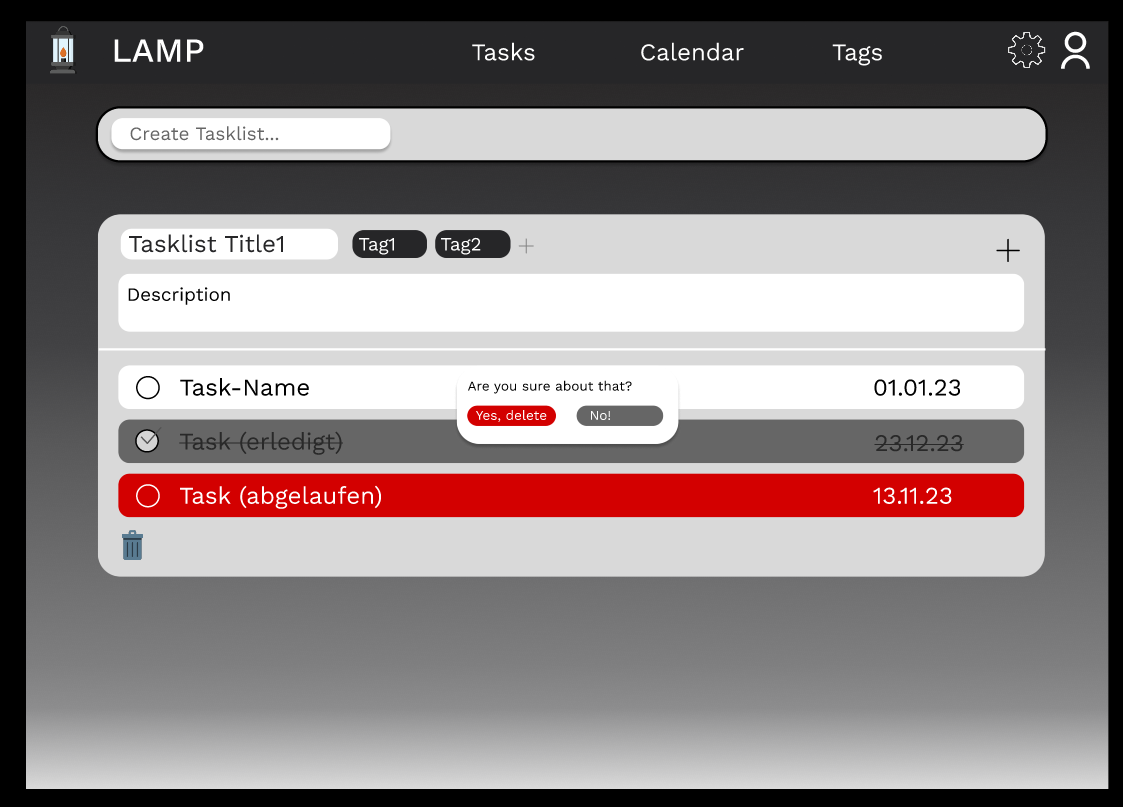
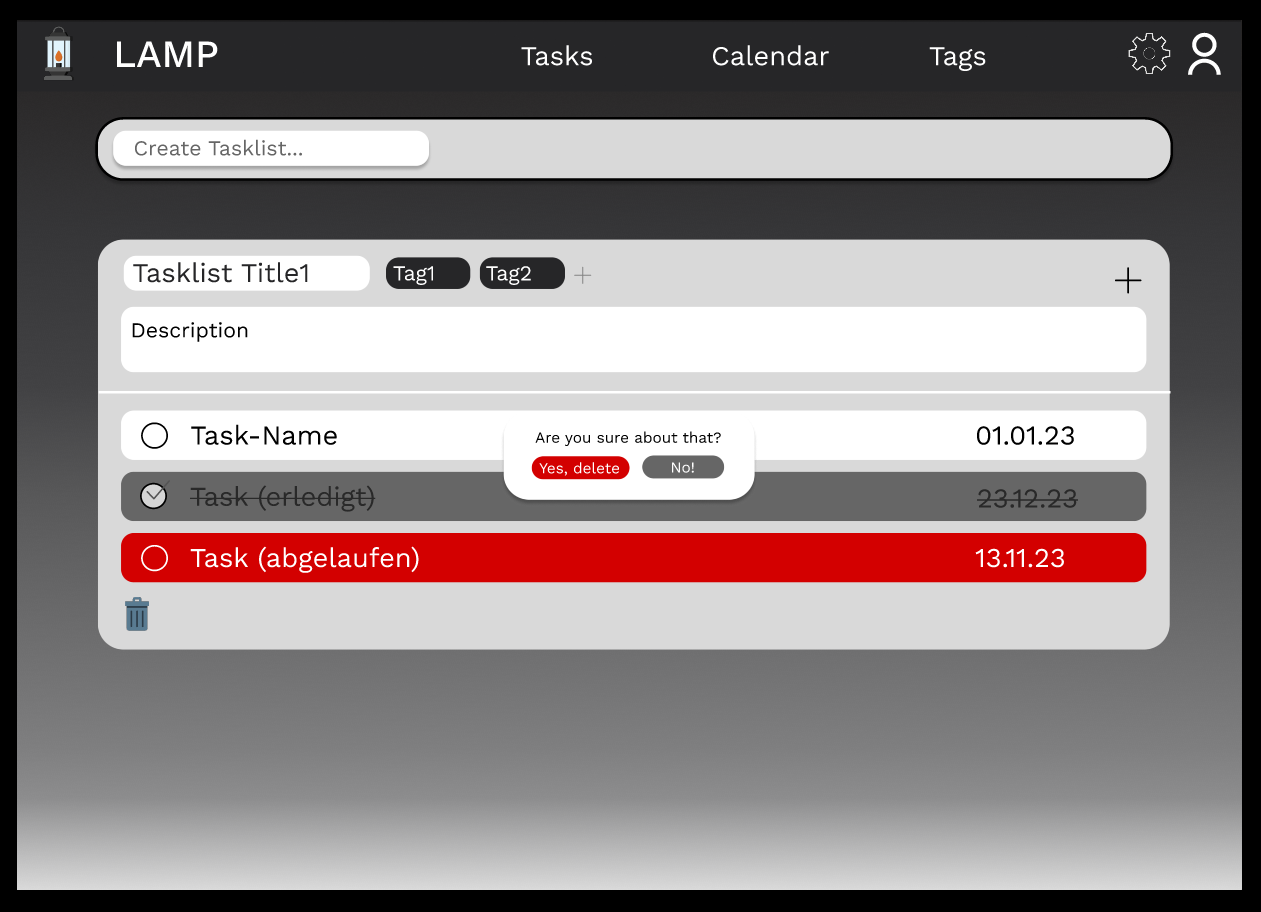
fixed a few grammatical errors, centred delete pop up

Changed region(s): [[0.0623, 0.2478, 0.935, 0.7125], [0.0, 0.0, 0.9662, 0.9913], [0.0623, 0.1239, 0.935, 0.2169]]

diff --git a/README.md b/README.md
@@ -114,7 +114,7 @@ Beim Erstellen einer Tasklist (= Liste an Tasks) muss man einen Titel angeben. D
 
 Das Hinzufügen von Kollaboratoren funktioniert über einen Einladungslink per E-Mail. Das Auswählen der Priorität funktioniert über ein Dropdown, und die Sorting Order sind klickbare Buttons. Das Hinzufügen von Tags funktioniert über den Namen des Tags, den man entweder bereits zuvor erstellt hat oder dadurch jetzt erstellt.
 
-Beim Ansehen einer Tasklist werden die einzelnen Teile angezeigt. Zudem kann man über ein "+" Tasks hinzufügen. Beim auflisten der Tasks werden jene rot markiert, deren Datum bereits war und jene grau markiert und durchgestrichen, die bereits erledigt wurden. Zudem werden die Tasks gelb markiert, deren Ablaufdatum bald ist. Man kann auch nachträglich Tags hinzufügen, zudem kann man mit dem Drücken eines Papierkorb-Buttons die gesamte Tasklist löschen, wobei dann ein Pop-Up erscheint, ob man das wirklich löschen will. 
+Beim Ansehen einer Tasklist werden die einzelnen Teile angezeigt. Zudem kann man über ein "+" Tasks hinzufügen. Beim Auflisten der Tasks werden jene rot markiert, deren Fälligkeitsdatum verstrichen ist, während diejenigen grau markiert und durchgestrichen werden, die bereits erledigt wurden. Zudem werden die Tasks gelb markiert, deren Ablaufdatum bald ist. Man kann auch nachträglich Tags hinzufügen. Zudem ist durch das Drücken eines Papierkorb-Buttons das Löschen der gesamten Tasklist möglich, wobei dann ein Pop-Up erscheint, ob man das wirklich löschen will. 
 
 Zu einer genaueren Ansicht kommt man, sobald man auf eine Task drückt.
 
@@ -130,13 +130,13 @@ Zu einer genaueren Ansicht kommt man, sobald man auf eine Task drückt.
 ![calendar view](./pictures/GUIMockups/Calendar.png)
 
 #### 3.5.2. Workflow
-Die Ansicht des Kalenders ist einfach gestalltet.
+Die Ansicht des Kalenders ist einfach aufgebaut.
 Er wird in einer Wochenansicht angezeigt. 
-In jedem, als Spalte gestaltetem, Tag werden Events in rot und Tasks in weiß angezeigt. 
-Auf ersten Blick ist dabei erkennlich wie sie heißen, wann sie starten, bzw bei Events auch wann sie enden.
+In jedem, als Spalte gestaltetem, Tag werden Events rot und Tasks weiß angezeigt. 
+Auf ersten Blick ist dabei erkennlich wie sie heißen, wann sie starten, bzw. bei Events auch wann sie enden.
 Beim Klick auf ein Event kommt man zum Menü "Edit Event". 
-Mit dem Klick auf eine eingetragene Task wird man auf das Taskfenster(3.4) verwiesen. 
-Neben dem Zeitrahmen der heutigen Woche(links oben) befinden sich Pfeile um durch die Wochen zu navigieren.
+Mit dem Klick auf eine eingetragene Task wird man auf das Taskfenster (siehe 3.4) verwiesen. 
+Neben dem Zeitrahmen der heutigen Woche(links oben) befinden sich Pfeile, um durch die Wochen zu navigieren.
 Außerdem gibt es die Buttons: New Task, New Event
 Diese weisen einen auf ein Erstellungsfenster der jeweiligen Kategorie weiter.
 
@@ -149,7 +149,7 @@ Diese weisen einen auf ein Erstellungsfenster der jeweiligen Kategorie weiter.
 Beim Erstellen eines Events gibt es folgende Auswahlmöglichkeiten:
 - Name: Der Name des Events, welcher auch in der Kalenderansicht angezeigt wird
 - Datum des Events: Tag an dem sich das Event abhält
-- Full day: Sollte Full day aktiviert sein, ist es nicht möglich Start und End zu verändern und das Event findet von 0:00 bis 23:59 statt
+- Full day: Sollte Full day aktiviert sein, ist es nicht möglich Start und End zu verändern. Das Event findet von 0:00 bis 23:59 Uhr statt
 - Description: Eine Beschreibung des Events
 Mit "Create" wird das Event sofort in den Kalender integriert.
 
